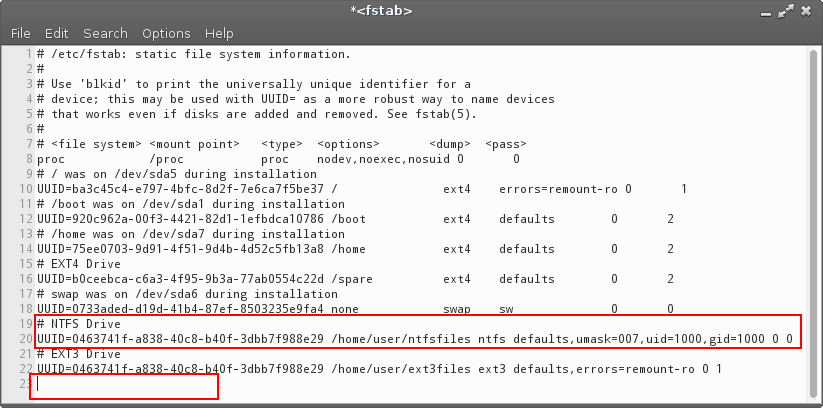
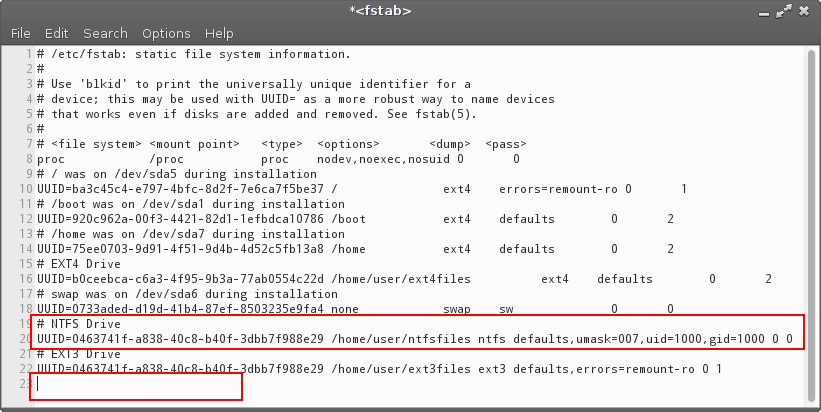
manual

diff --git a/C/install.html b/C/install.html
@@ -236,7 +236,7 @@
 				You can put the above line anywhere in the fstab file.<br />
 				Make sure you leave a blank line at the bottom of the fstab file 
 				before you save the file.<p>
-				<img height="408" src="img/installer/fstab_ntfs.png" width="823" /><p>
+				<img height="412" src="img/installer/fstab_ntfs.png" width="821" /><p>
 				Where <strong>user</strong> is your username. Save the file. Open a terminal and type: <strong>sudo mount -a</strong><br />
 				<br />
 				If all went to plan, in <strong>/home/user/ntfsfiles</strong> 
@@ -269,7 +269,7 @@
 				You can put the above line anywhere in the fstab file.<br />
 				Make sure you leave a blank line at the bottom of the fstab file 
 				before you save the file.<p>
-				<img height="408" src="img/installer/fstab_ext4.png" width="823" /><br />
+				<img height="412" src="img/installer/fstab_ext4.png" width="821" /><br />
 				<br />
 				Where <strong>user</strong> is your username. Save the file. Open a terminal and type: <strong>sudo mount -a</strong><br />
 				<br />
@@ -303,7 +303,7 @@
 				You can put the above line anywhere in the fstab file.<br />
 				Make sure you leave a blank line at the bottom of the fstab file 
 				before you save the file.<p>
-				<img height="408" src="img/installer/fstab_ext3.png" width="823" /><br />
+				<img height="412" src="img/installer/fstab_ext3.png" width="821" /><br />
 				<br />
 				Where <strong>user</strong> is your username. Save the file. Open a terminal and type: <strong>sudo mount -a</strong><br />
 				<br />
